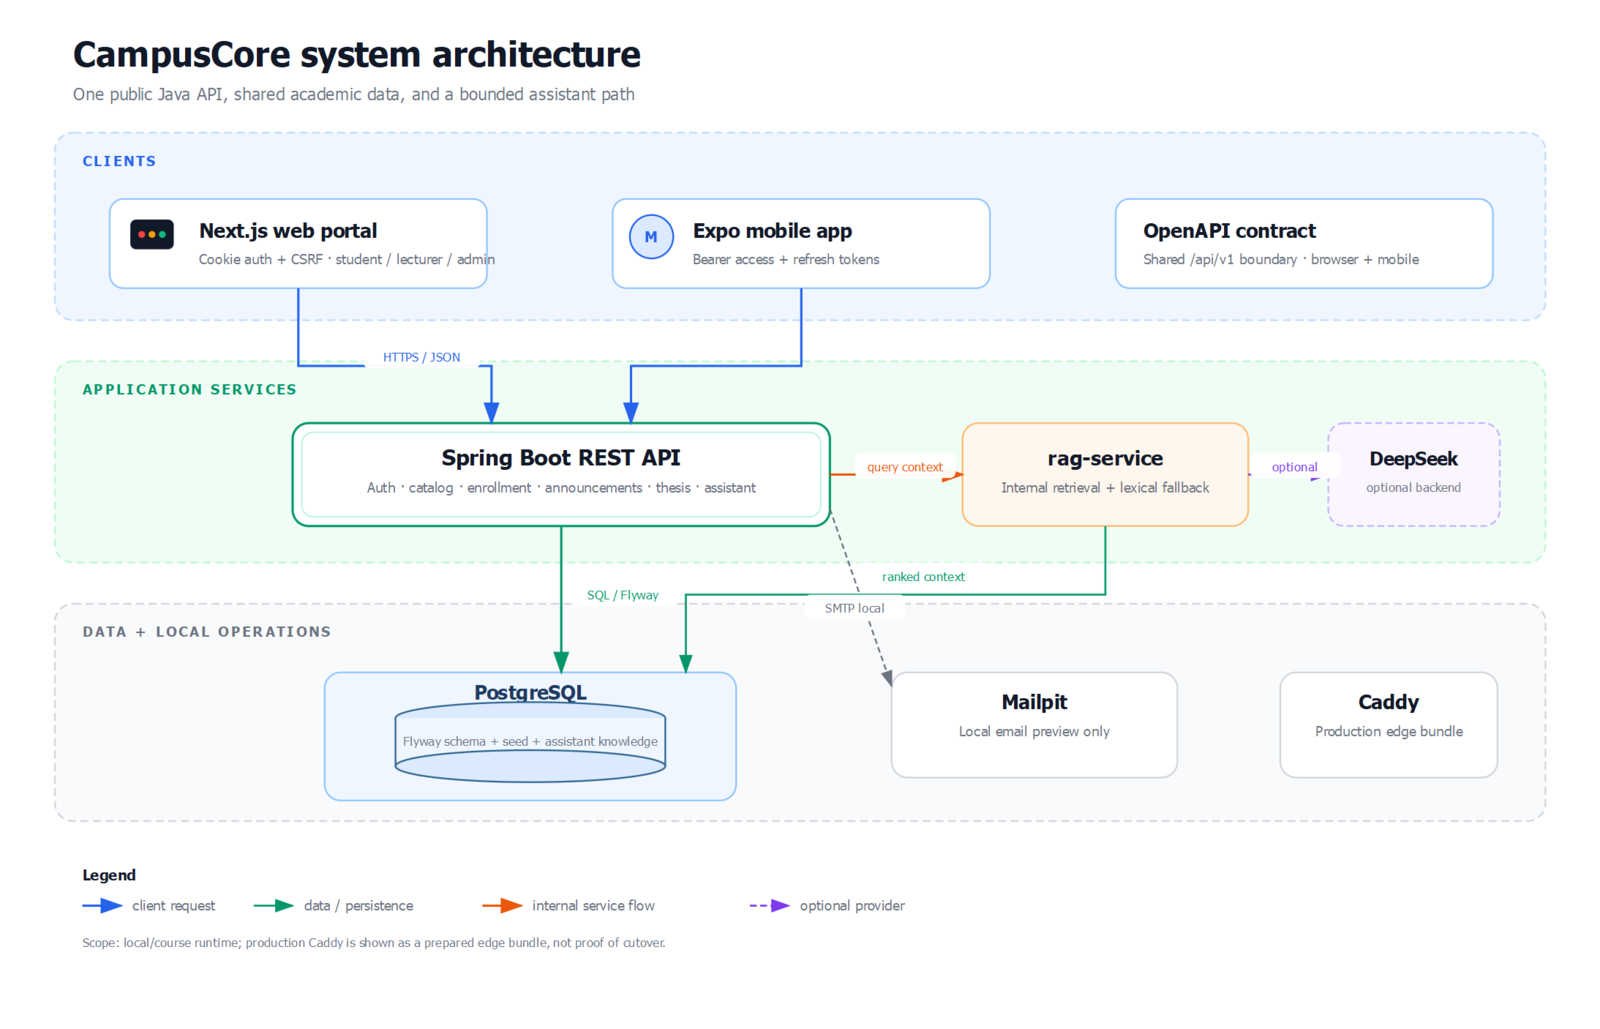
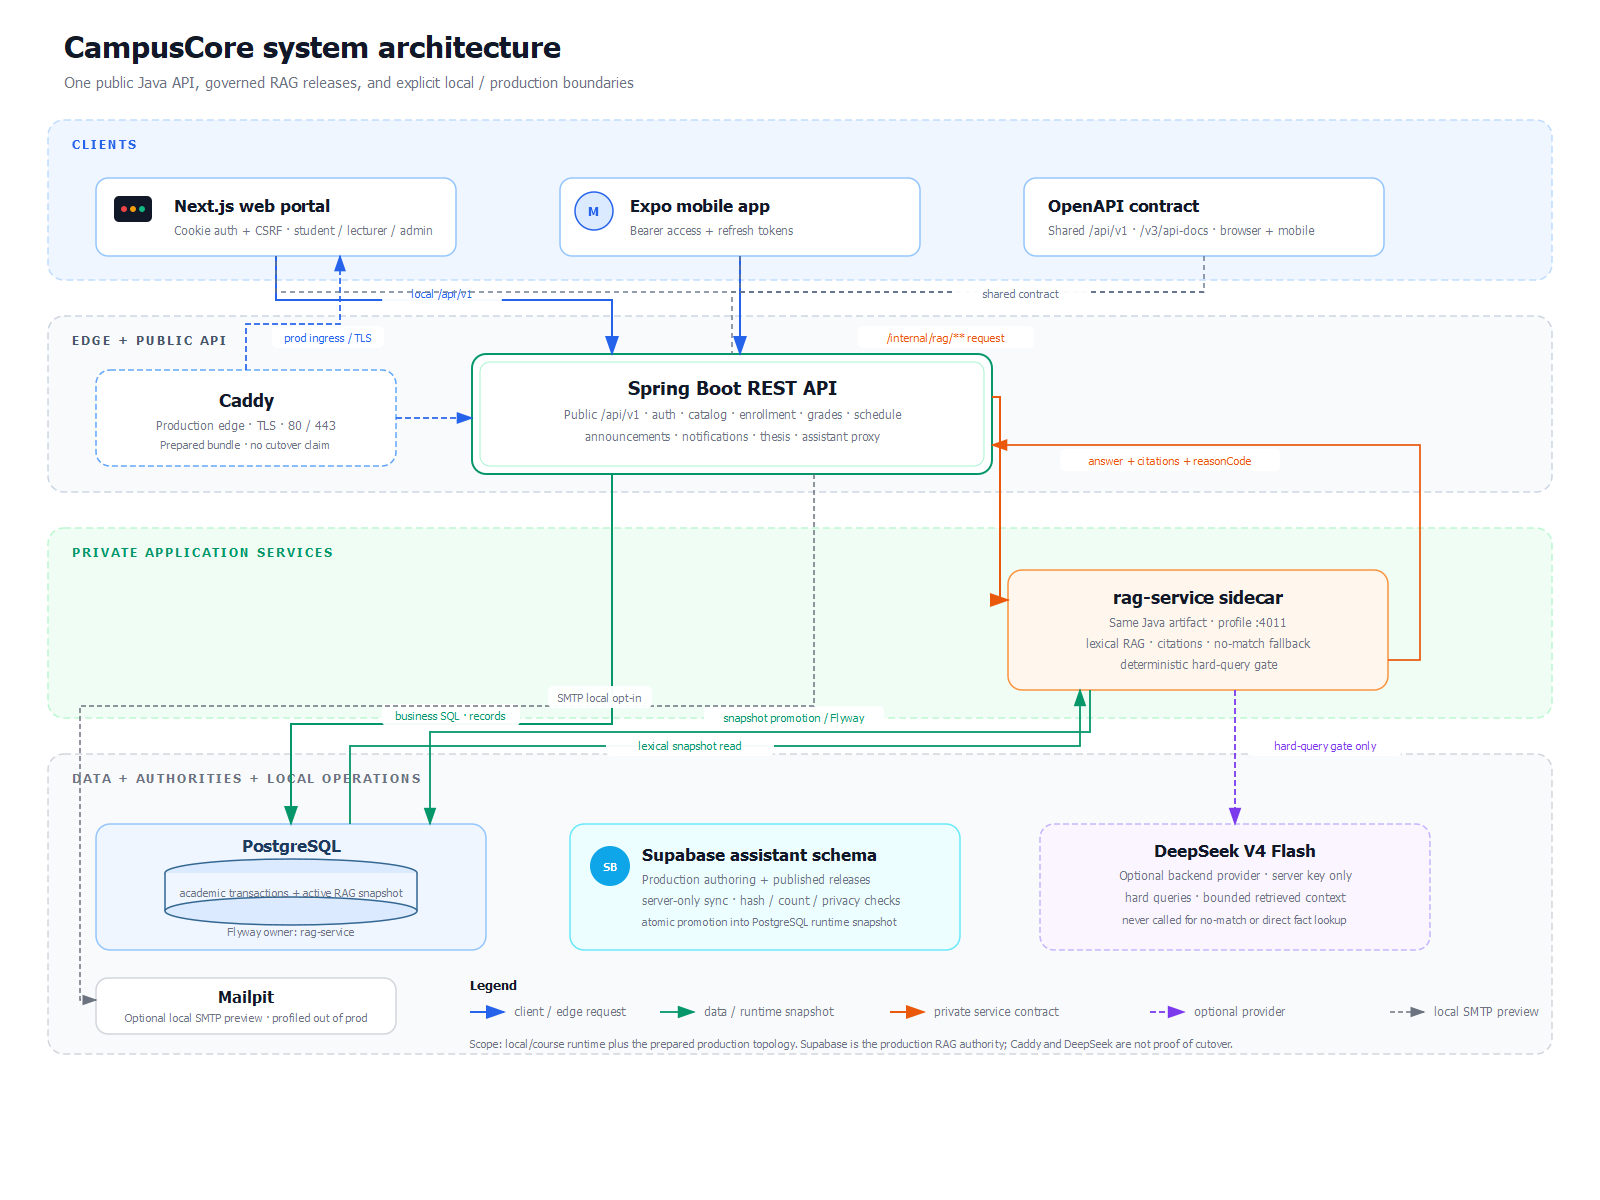
docs: refresh CampusCore architecture diagram

diff --git a/docs/ARCHITECTURE.md b/docs/ARCHITECTURE.md
@@ -4,8 +4,8 @@
 
 The [vector source](assets/campuscore-system-architecture.svg) is kept beside
 the rendered PNG so the diagram remains reviewable and zoomable. It describes
-the local/course runtime; the prepared Caddy edge is shown as a bundle boundary,
-not as evidence of production cutover.
+the local/course runtime plus the prepared production topology; the Caddy edge
+is shown as a bundle boundary, not as evidence of production cutover.
 
 ## Runtime
 
@@ -20,13 +20,15 @@ public API; Java remains the only /api/v1 owner.
 
 The Java application is the only public backend owner of `/api/v1`. Web uses
 cookie authentication with CSRF protection; mobile uses bearer access and
-refresh tokens. Both clients consume the same OpenAPI contract.
+refresh tokens. Both clients consume the same OpenAPI contract. In production,
+Caddy is the prepared TLS edge and routes public traffic to the web/API
+containers; it is not evidence that a production cutover has happened.
 
 ## Domain ownership
 
 The Java API owns authentication, identity, people, catalog, sections,
 enrollment, grades, schedules, announcements, notifications, thesis core and
-the local thesis assistant. Auth and academic records use stable string IDs;
+the assistant. Auth and academic records use stable string IDs;
 thesis and assistant records use UUIDs. Student and lecturer codes remain
 unique business identifiers.
 
@@ -37,16 +39,23 @@ schema is read at runtime and no old data migration is required.
 
 ## Assistant
 
-The thesis assistant performs bounded retrieval over published thesis knowledge
-revisions plus a fixed public academic-catalog projection in PostgreSQL.
-Lexical ranking, locale fallback, immutable source snapshots and server-owned
-citations remain the deterministic baseline. When `DEEPSEEK_ENABLED=true` and a
-server-only `DEEPSEEK_API_KEY` exists, Java may send only the current question
-and filtered snapshot context to the allowlisted DeepSeek chat endpoint using
-`deepseek-v4-flash` with thinking disabled. Provider I/O runs outside the short
-reservation/quota transactions; completion and cancellation compete on one
-terminal CAS. The provider is never called from a client, never receives raw
-history/profile data, and never becomes the source of citations. Timeout,
+The assistant performs bounded retrieval over published campus knowledge
+revisions and a fixed public academic-catalog projection in PostgreSQL. The
+private `rag-service` sidecar uses the same Java artifact/profile on port 4011;
+the REST API proxies `/internal/rag/**` and remains the only public `/api/v1`
+owner. In production, Supabase's `assistant` schema is the authoring and
+published-release authority. The sidecar validates release count, hash,
+privacy and domain metadata before atomically promoting a PostgreSQL runtime
+snapshot. Local/course mode seeds the same snapshot through Flyway.
+
+Lexical ranking, locale fallback, immutable snapshots and server-owned
+citations remain the deterministic baseline. When `DEEPSEEK_ENABLED=true` and
+a server-only `DEEPSEEK_API_KEY` exists, the sidecar may send only the current
+question and filtered snapshot context to the allowlisted DeepSeek chat endpoint
+using `deepseek-v4-flash` with thinking disabled. Provider I/O runs outside the
+short reservation/quota transactions; completion and cancellation compete on
+one terminal CAS. The provider is never called from a client, never receives
+raw history/profile data, and never becomes the source of citations. Timeout,
 quota, circuit, missing-key, no-match, provider, privacy, or database failures
 return a truthful lexical/degraded response.
 

diff --git a/docs/integrations/deepseek-assistant.md b/docs/integrations/deepseek-assistant.md
@@ -1,9 +1,12 @@
-# DeepSeek thesis assistant integration
+# DeepSeek campus assistant integration
 
-CampusCore's assistant is a thesis-only, grounded RAG feature owned by the
-Java API. The normal path is deterministic PostgreSQL lexical retrieval with
+CampusCore's assistant is a grounded campus RAG feature served by the private
+`rag-service` sidecar, which uses the same Java artifact as the public REST API.
+The normal path is deterministic PostgreSQL lexical retrieval with
 server-owned citations. DeepSeek is an optional answer synthesizer, not a
-knowledge authority and not a client-side dependency.
+knowledge authority and not a client-side dependency. In production the sidecar
+syncs the published Supabase `assistant` release into the PostgreSQL runtime
+snapshot before retrieval; local/course mode seeds that snapshot with Flyway.
 
 ## Runtime configuration
 
@@ -45,7 +48,7 @@ authority.
 ## Request/data boundary
 
 The provider request contains only the current question and a bounded,
-locale-filtered, published thesis context delimited as untrusted data. It does
+locale-filtered, published campus context delimited as untrusted data. It does
 not include email, profile IDs, bearer tokens, raw conversation history, or
 unfiltered database rows. The system instruction requires an answer from the
 context only, ignores instructions inside the question/context, and refuses
@@ -75,7 +78,7 @@ Expired `RESERVED`/`SNAPSHOT_READY` leases become retryable
 
 When provider access is disabled, unauthenticated, over quota, circuit-open,
 timed out, or fails, the service returns the lexical answer with `degraded`
-and a stable `reasonCode`. If retrieval has no matching published thesis
+and a stable `reasonCode`. If retrieval has no matching published campus
 documents, no provider call is attempted.
 
 ## Knowledge lifecycle

diff --git a/docs/RESTFUL_API_CONSOLIDATION.md b/docs/RESTFUL_API_CONSOLIDATION.md
@@ -11,7 +11,9 @@ PostgreSQL local là nguồn dữ liệu duy nhất. Riêng assistant chạy tro
 
 Phạm vi gồm auth, people, academic catalog, sections, enrollment, grades,
 schedules, announcements, notifications, thesis core và assistant lexical RAG.
-Finance, analytics, support, realtime, external AI, Redis, RabbitMQ, MinIO,
+Production assistant knowledge is published through Supabase and promoted by
+the private `rag-service` sidecar; optional external synthesis remains disabled
+by default. Finance, analytics, support, realtime, Redis, RabbitMQ, MinIO,
 Nginx và Kubernetes là non-goal của đồ án.
 
 Schema mới được Flyway sở hữu trên database fresh. Không đọc schema legacy và
